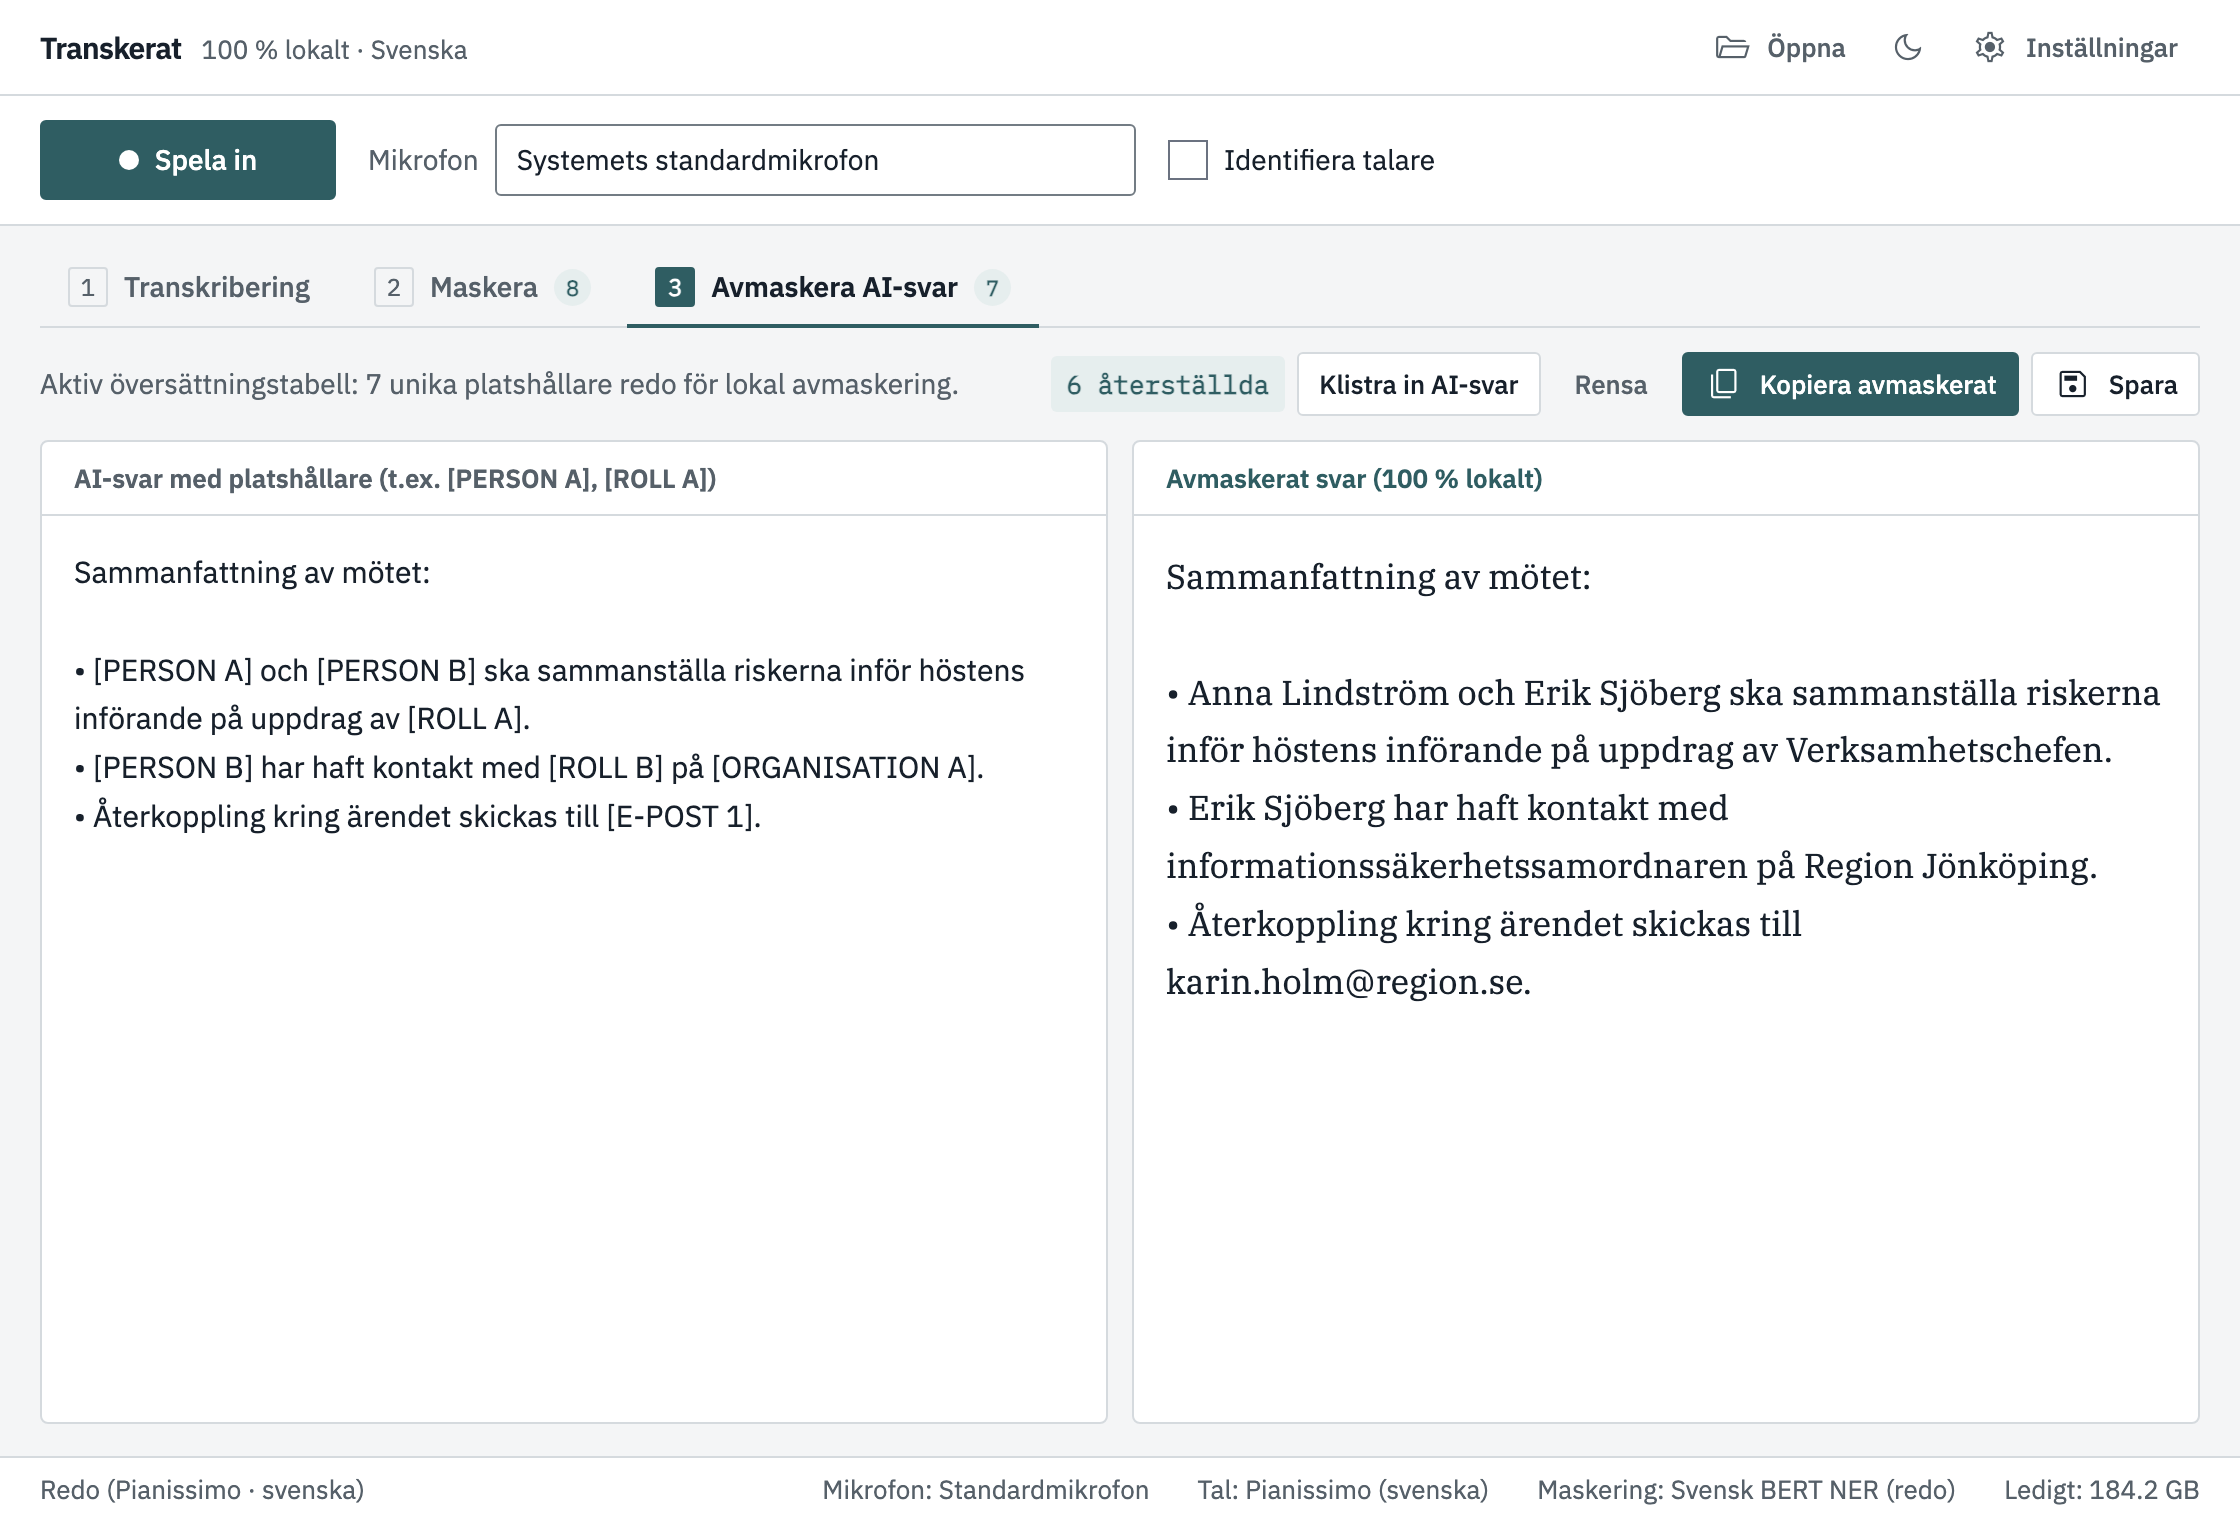
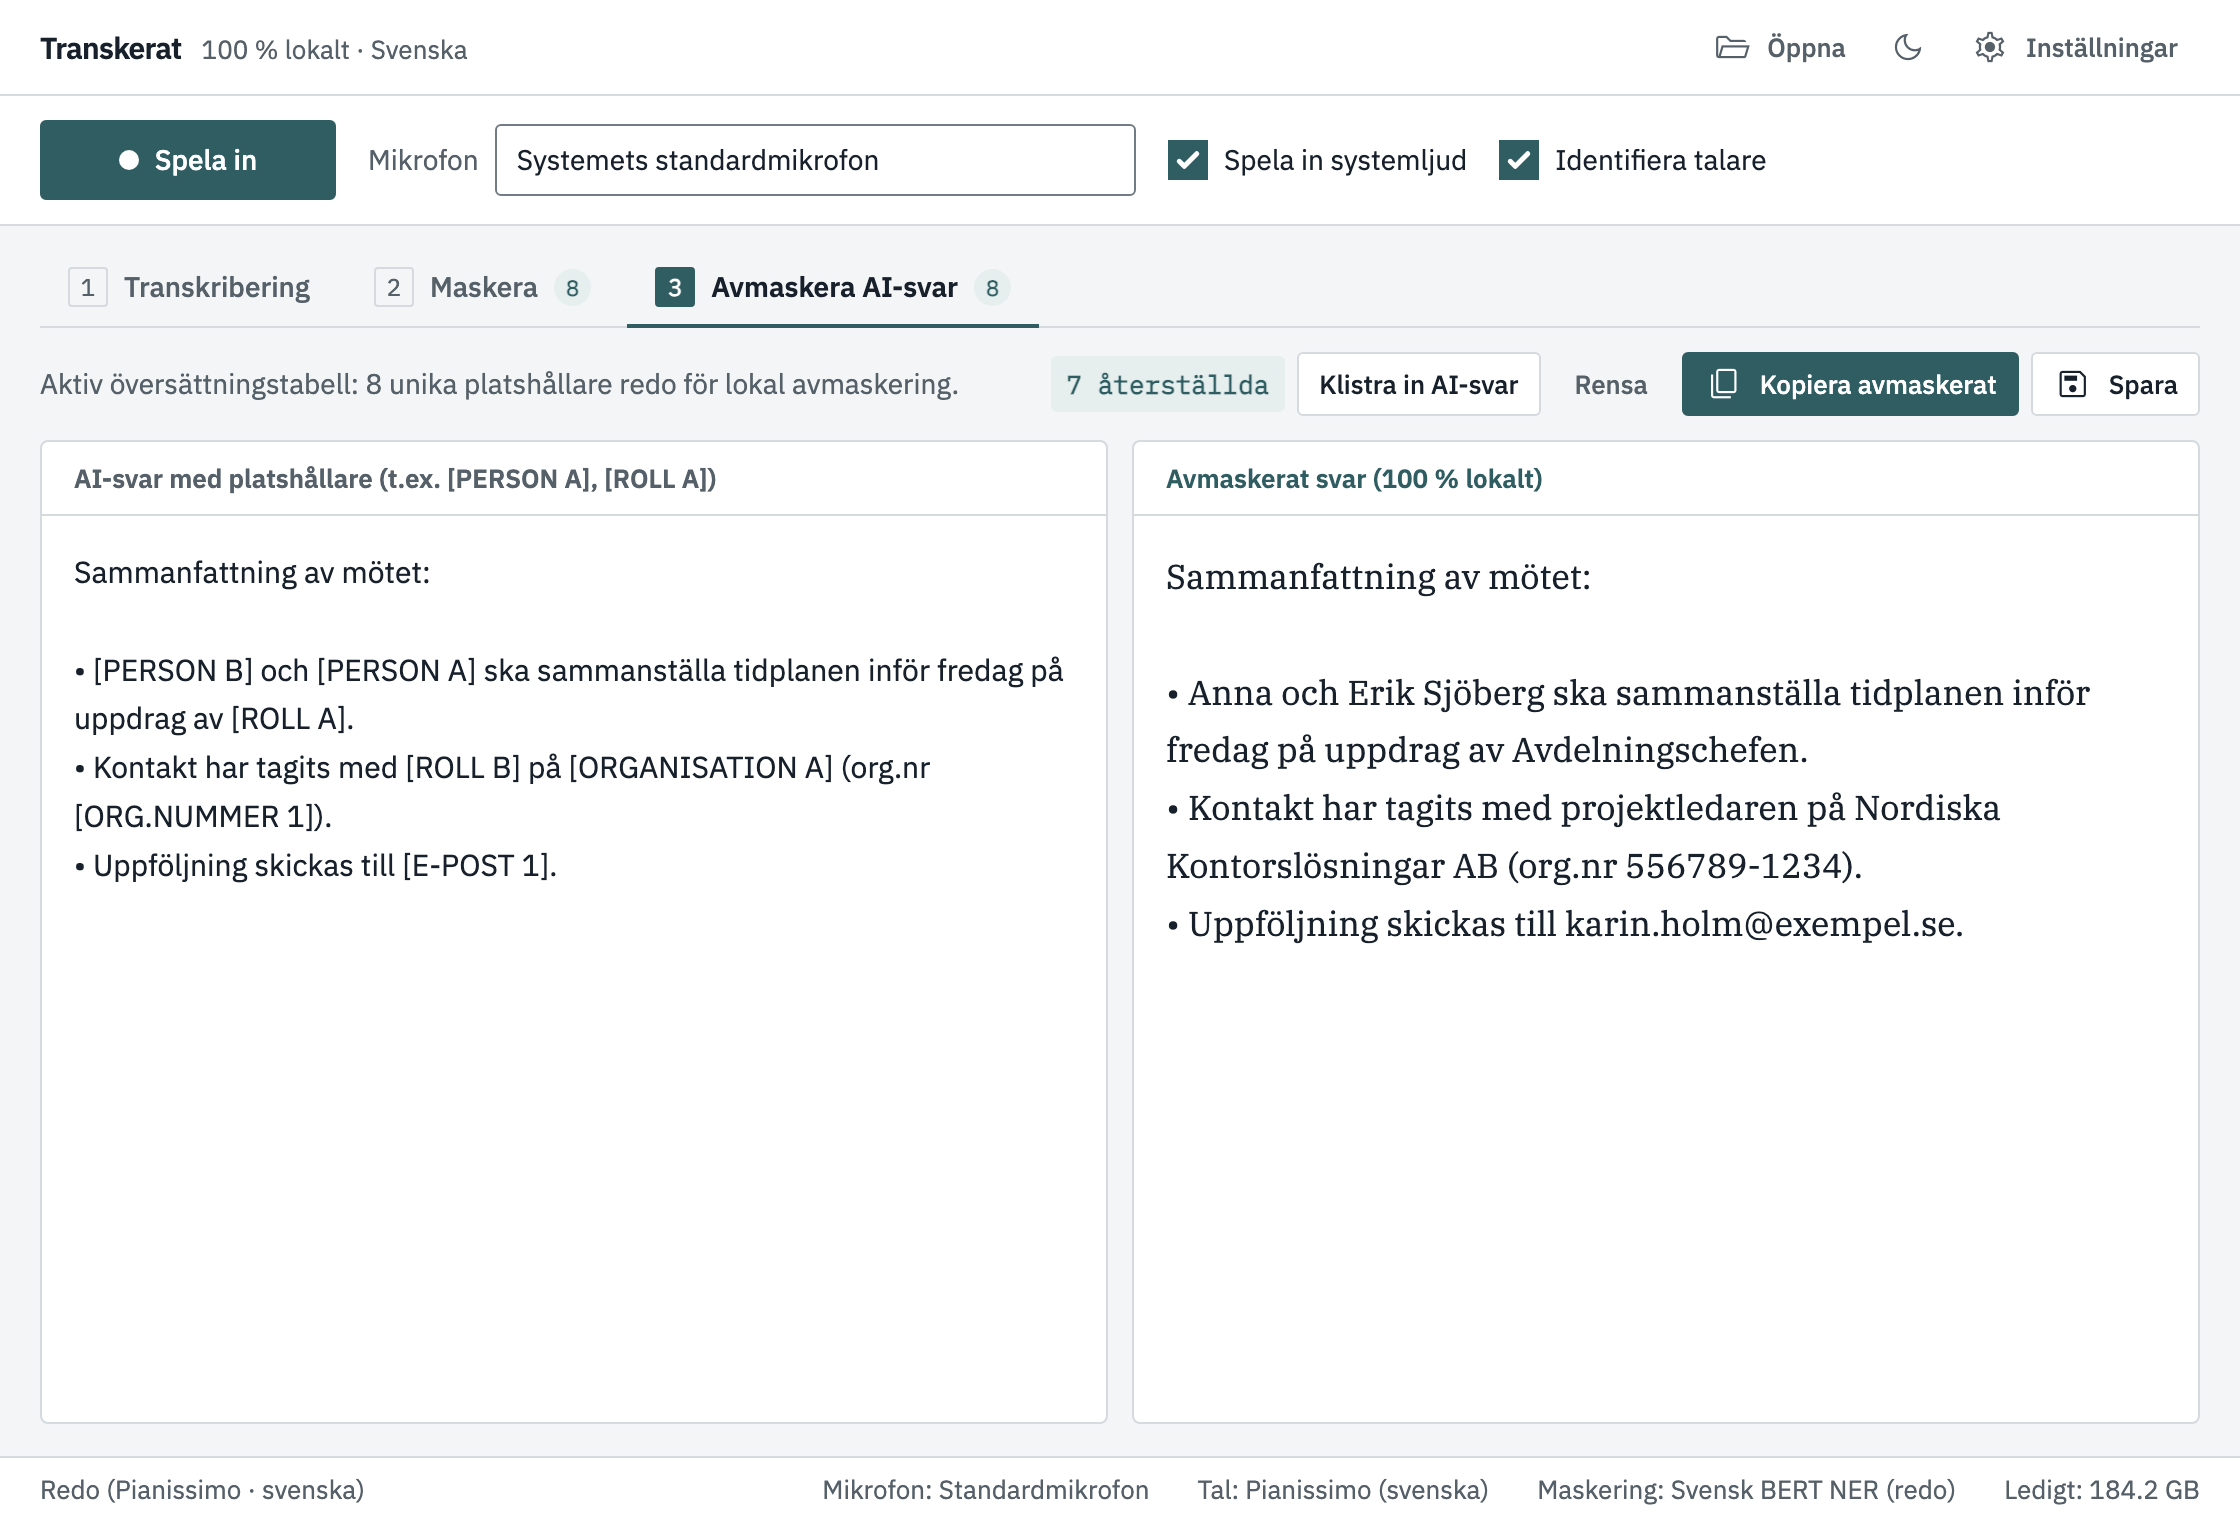
Uppdatera README och skärmdumpar: generellt möte, Talare 1/2, Windows vs macOS [skip ci]

diff --git a/README.md b/README.md
@@ -13,14 +13,29 @@ All taligenkänning, namn- och rollmaskering samt återställning av AI-svar ske
 ## Så fungerar det — tre steg från möte till färdig sammanfattning
 
 ### 1. Transkribering (Pianissimo · svenska)
-Spela in möten direkt i appen (mikrofon + systemljud på Windows) eller öppna en ljud- eller videofil (MP3, M4A, WAV, MP4 m.fl.).
+Spela in möten direkt i appen (på Windows) eller öppna en ljud- eller videofil (MP3, M4A, WAV, MP4 m.fl.).
 
 - **Endast svenska Pianissimo** — körs snabbt på vanlig processor utan krav på grafikkort.
-- **Talaridentifiering (valfritt)** — skiljer på vem som säger vad, med möjlighet att ge talarna egna namn.
-- **Personliga ordlistor** — rättar automatiskt facktermer och namn som ofta hörs fel (t.ex. `Kulturum => Qulturum`).
+- **Talaridentifiering (valfritt)** — skiljer automatiskt på olika röster som **Talare 1**, **Talare 2** osv. (du kan även klicka på en talaretikett för att själv döpa om den vid behov).
+- **Personliga ordlistor** — rättar automatiskt facktermer och interna begrepp som ofta hörs fel (t.ex. `kund portalen => Kundportalen`).
 - **Synkad ljudspelare** — klicka på valfri tidsstämpel för att lyssna och korrigera texten direkt.
 
 ![Steg 1: Transkribering i Transkerat](docs/screenshots/01-transkribering.png)
+
+---
+
+## Skillnad mellan Windows (PC) och macOS
+
+| Funktion | Windows (PC) | macOS (Apple Silicon) |
+|---|---|---|
+| **Spela in digitala möten (systemljud + mikrofon)** — t.ex. Teams, Pexip, Zoom, Google Meet | ✅ Ja (WASAPI loopback) | ❌ Nej |
+| **Spela in mikrofon direkt i appen** | ✅ Ja | ❌ Nej |
+| **Öppna och transkribera ljud-/videofiler** (MP3, M4A, WAV, MP4 m.fl.) | ✅ Ja | ✅ Ja |
+| **Talaridentifiering (`Talare 1`, `Talare 2` …) & personliga ordlistor** | ✅ Ja | ✅ Ja |
+| **Maskera (AI-säker & Strikt inkl. Roll/Titel) & Avmaskera AI-svar** | ✅ Ja | ✅ Ja |
+| **Lokal sessionslagring av transkript & maskeringsnyckel** | ✅ Ja | ✅ Ja |
+
+> På **Windows (PC)** kryssar du bara i **Spela in systemljud** i verktygsraden för att få med både din egen mikrofon och övriga deltagare i digitala möten (Teams, Pexip, Zoom m.fl.). På **macOS** öppnar du i stället en inspelad ljud- eller videofil (eller klistrar in text direkt).
 
 ---
 
@@ -29,7 +44,7 @@ Klicka på **Maskera text →** för att pseudonymisera transkriptet lokalt inna
 
 - **Två färdiga profiler:**
   - **AI-säker** — maskerar personnummer/samordningsnummer, e-post, telefonnummer, org.nummer, konto/giro, kortnummer, hemligheter/nycklar samt personer, organisationer, platser och övrigt.
-  - **Strikt (inkl. Roll/Titel)** — maskerar allt i *AI-säker* plus svenska yrkesroller och befattningar (`[ROLL A]`, t.ex. *verksamhetschefen*, *informationssäkerhetssamordnaren*), IP-adresser, tider och händelser.
+  - **Strikt (inkl. Roll/Titel)** — maskerar allt i *AI-säker* plus svenska yrkesroller och befattningar (`[ROLL A]`, t.ex. *avdelningschefen*, *projektledaren*), IP-adresser, tider och händelser.
 - **Full kontroll i granskningsvyn:**
   - Klicka på valfri markering för att undanta eller återaktivera den.
   - Markera valfri text för att lägga till en manuell maskering.
